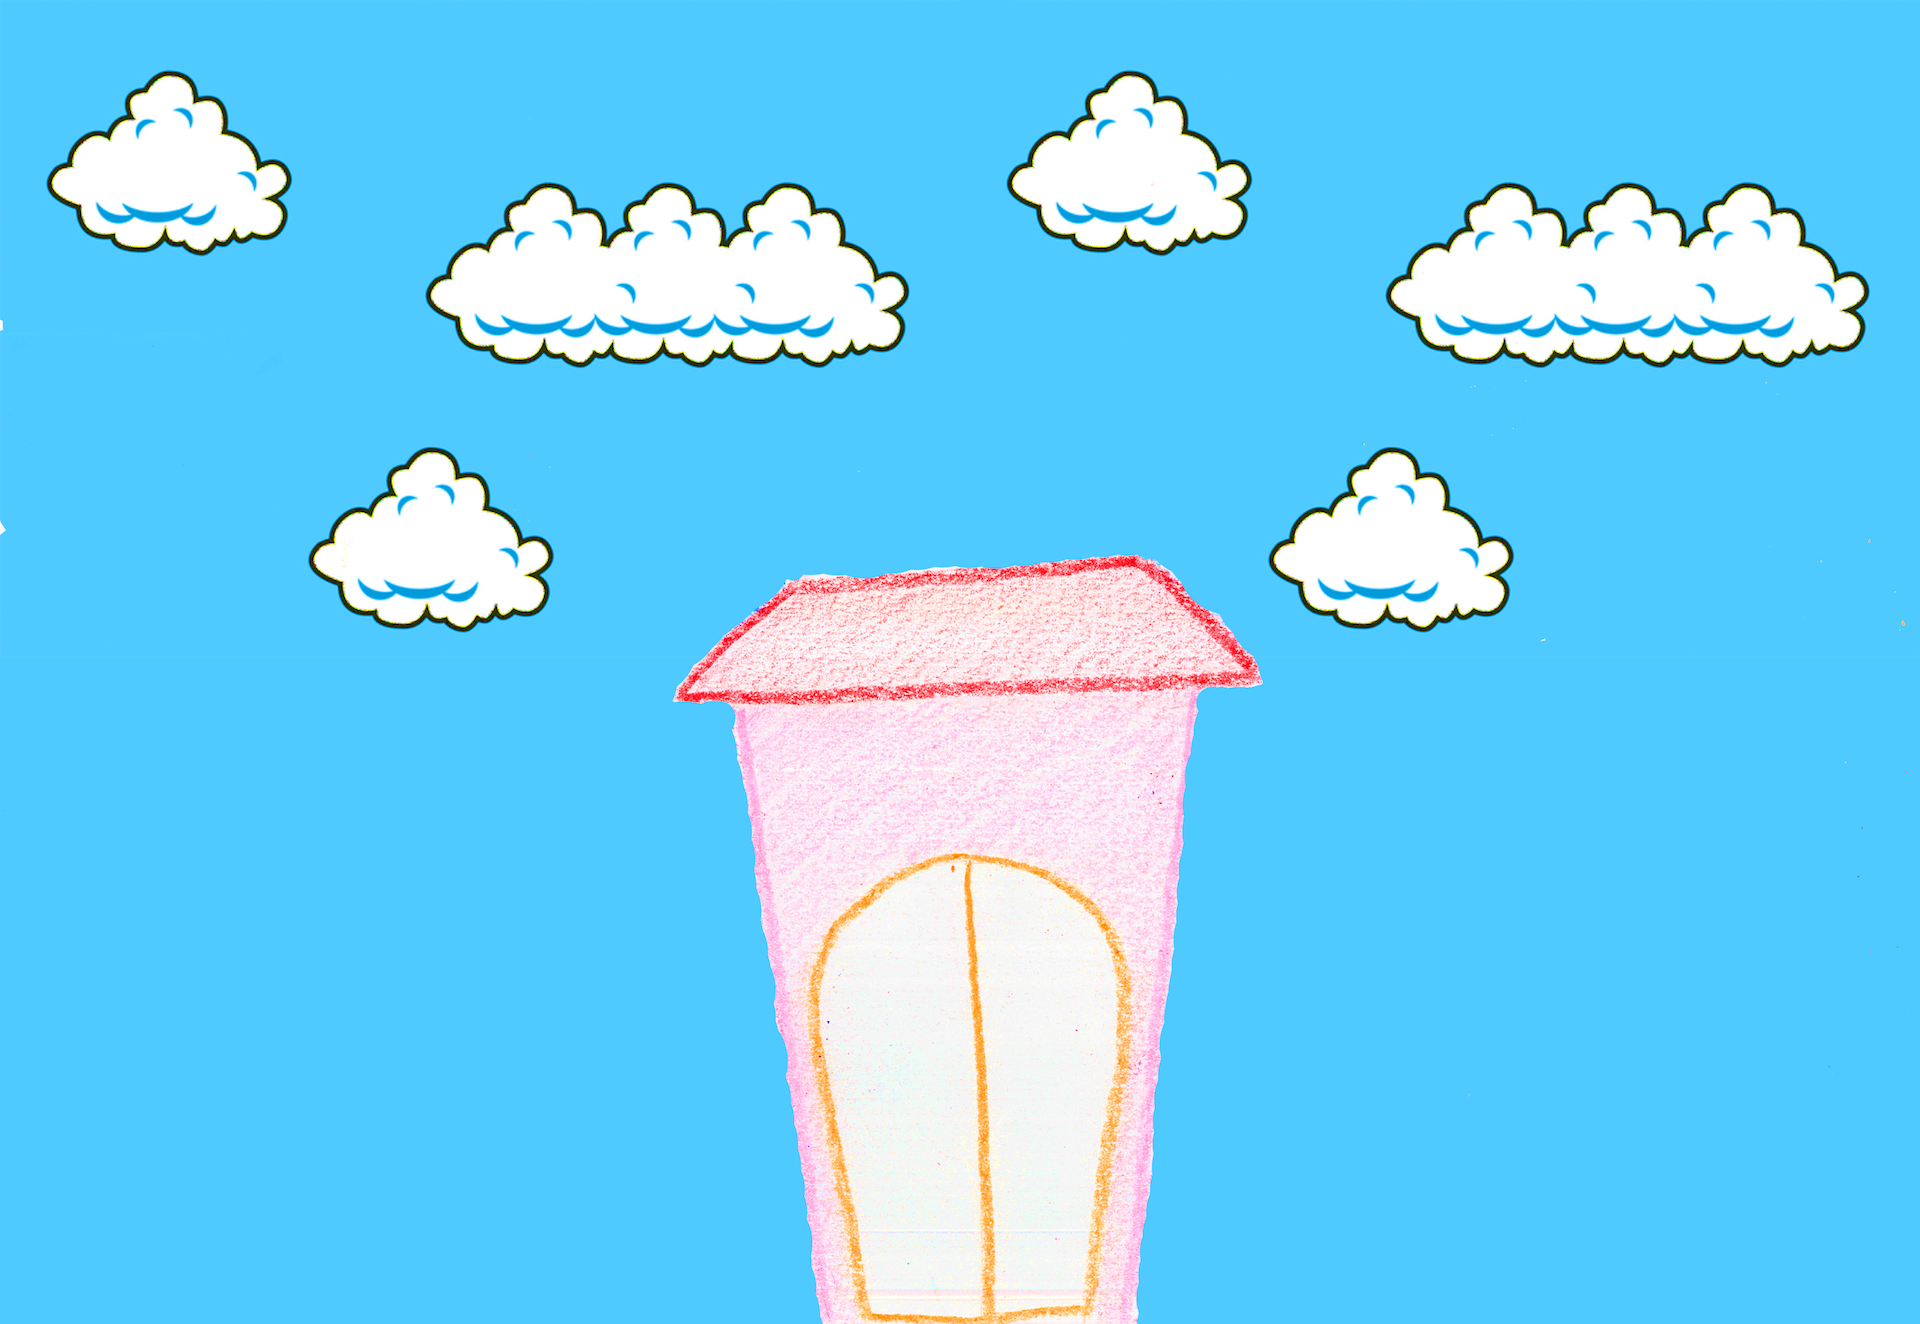
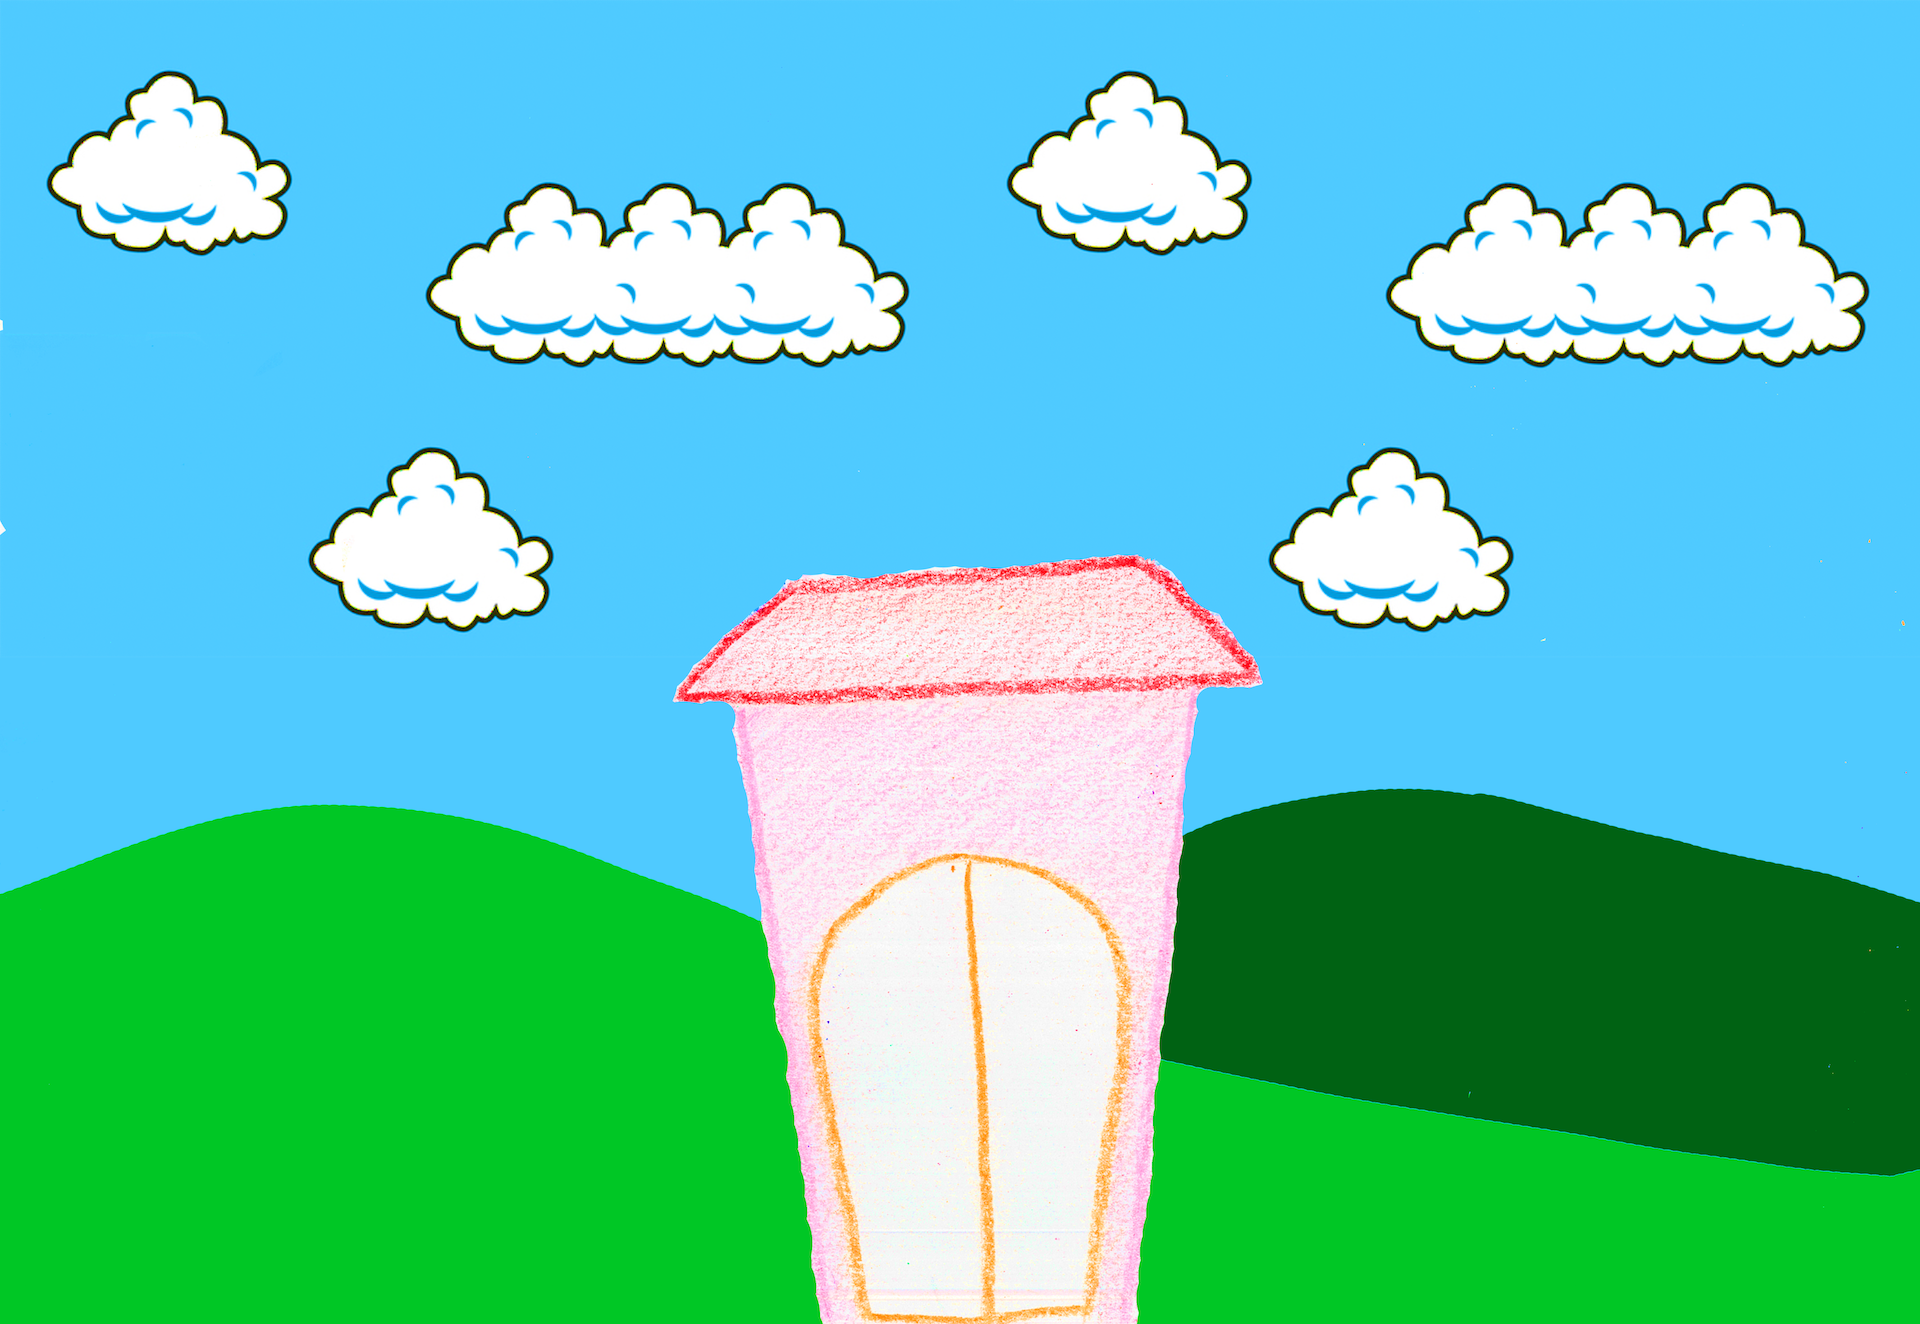
update flash with background

Changed region(s): [[0.0, 0.5884, 0.4375, 1.0], [0.5938, 0.5884, 1.0, 1.0]]

diff --git a/frontend/script.js b/frontend/script.js
@@ -14,12 +14,45 @@ var rand = function (min, max) {
   return Math.floor(Math.random() * (max + 1 - min)) + min;
 };
 
+var wait_one_sec = function(){
+  return new Promise(function(resolve, reject){
+    setTimeout(() => {
+      resolve();
+    }, 1000);
+  });
+}
+
 var main = function () {
   console.log("main");
-  setInterval(() => {
-    setCastle(rand(1, 3), rand(1, 3), rand(1, 3));
-  }, 1000);
+  // setInterval(() => {
+  //   setCastle(rand(1, 3), rand(1, 3), rand(1, 3));
+  // }, 1000);
   setCastle(1, 1, 1);
+  wait_one_sec()
+    .then(function () {
+      setCastle(1, 1, 2);
+    })
+    .then(wait_one_sec)
+    .then(function () {
+      setCastle(1, 2, 1);
+    })
+    .then(wait_one_sec)
+    .then(function () {
+      setCastle(1, 2, 2);
+    })
+    .then(wait_one_sec)
+    .then(function () {
+      setCastle(2, 2, 2);
+    })
+    .then(wait_one_sec)
+    .then(function () {
+      setCastle(2, 3, 2);
+    })
+    .then(wait_one_sec)
+    .then(function () {
+      setCastle(3, 3, 3);
+    })
+    .then(wait_one_sec)
 };
 
 $(function () {

diff --git a/frontend/index.html b/frontend/index.html
@@ -10,16 +10,19 @@
 
   <!-- Bootstrap CSS -->
   <link rel="stylesheet" href="style.css">
-  <link rel="stylesheet" href="https://maxcdn.bootstrapcdn.com/bootstrap/4.0.0-beta.2/css/bootstrap.min.css" integrity="sha384-PsH8R72JQ3SOdhVi3uxftmaW6Vc51MKb0q5P2rRUpPvrszuE4W1povHYgTpBfshb" crossorigin="anonymous">
+  <link rel="stylesheet" href="https://maxcdn.bootstrapcdn.com/bootstrap/4.0.0-beta.2/css/bootstrap.min.css" integrity="sha384-PsH8R72JQ3SOdhVi3uxftmaW6Vc51MKb0q5P2rRUpPvrszuE4W1povHYgTpBfshb"
+    crossorigin="anonymous">
 </head>
 
 <body>
   <h1>Hello, world!</h1>
 
-  <div class="frame">
-    <div class="castle"></div>
-    <div class="wall"></div>
-    <div class="garden"></div>
+  <div class="container">
+    <div class="frame">
+      <div class="castle"></div>
+      <div class="wall"></div>
+      <div class="garden"></div>
+    </div>
   </div>
 
   <!-- Optional JavaScript -->

diff --git a/frontend/style.css b/frontend/style.css
@@ -1,12 +1,25 @@
 
+.container {
+    /* width: 100%; */
+    text-align: center;
+}
+
 .frame > div {
-    border: 1px dotted gray;
-    width: 640px;
+    /* border: 1px dotted gray; */
+    width: 100%;
     background-size: contain;
     background-repeat: no-repeat;
     background-position: center center; 
 }
 
+.frame {
+    width: 579px;
+    background-color: #00c624;
+    background-image: url("images/bg.png");
+    background-size: contain;
+    background-repeat: no-repeat;
+    background-position: top center;
+}
 .castle {
     height: 400px;
 }
